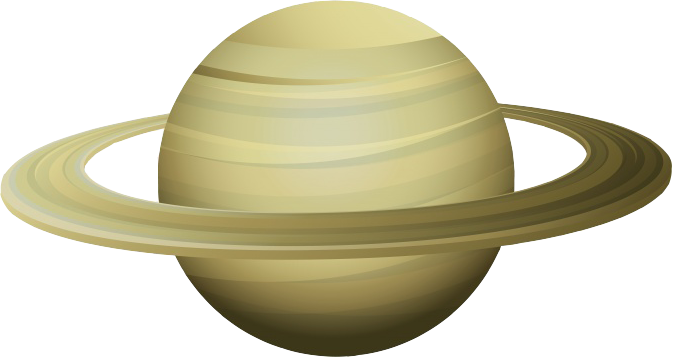
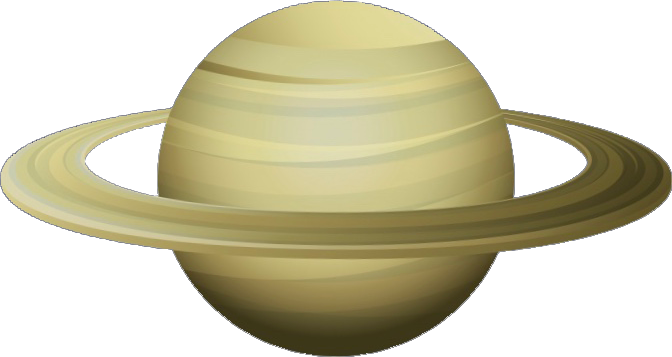
动画样式改造

diff --git a/src/modules/animateList/index.scss b/src/modules/animateList/index.scss
@@ -5,67 +5,6 @@
     width: 100%;
     min-height: 100%;
     background: #f5f5f9;
-
-    .star-animate1 {
-        width: 100%;
-        height: 100%;
-        background: url("~Images/animateList/1/bg.jpeg");
-        background-size: cover;
-
-        .out_circle{
-            width: 400px;
-            height: 400px;
-            margin: auto;
-            border-radius:50%;
-            position: relative;
-        }
-        .center-img1 {
-            position: absolute;
-            left: 6%;
-            top: 25.5%;
-            width: 88%;
-            height: 49%;
-        }
-        .test-div {
-            position: absolute;
-            width: 200px;
-            height: 625px;
-            background: red;
-            left: 128px;
-            top: -71px;
-        }
-        .nav_circle{
-            width:100%;
-            height:100%;
-            float:left;
-            position:absolute;
-            top:0;
-            text-align:center;
-            border: 1px solid red;
-            border-radius: 50%;
-        }
-
-        .img_top img, .img_bottom img, .img_bottom2 img {
-            width: 100px;
-            height: 100px;
-        }
-        .img_top,.img_bottom,.img_bottom2{
-            position: absolute;
-            z-index:1;
-        }
-        .nav_circle .img a{
-            position: absolute;
-            top:10px;
-            left:94px;
-            width: 52px;
-        }
-        .r1{
-            animation: rotate 13s linear infinite;
-            -webkit-animation:rotate 13s linear infinite;
-            -moz-animation:rotate 13s linear infinite;
-            -o-animation:rotate 13s linear infinite;
-        }
-    }
     .star-animate {
         width: 100%;
         height: 100%;
@@ -97,7 +36,7 @@
             top: 25.5%;
             width: 88%;
             height: 49%;
-            transform: rotateX(0deg);
+            transform: rotateX(70deg);
             -webkit-transform: rotateX(70deg); /* Safari and Chrome */
         }
         .test-div {

diff --git a/src/modules/animateList/index.js b/src/modules/animateList/index.js
@@ -43,8 +43,7 @@ class AnimateList extends Component {
   render() {
     return <div className="animateList-container">
       <Header parentProps={this.props}/>
-      <a id="a1" href="#a1"/>
-      <Card title="3D旋转动画效果或者卫星围绕旋转效果（终）" bordered={false} style={{ width: "80%", marginTop: 90, marginLeft: "10%", height: 500 }}>
+      <Card title="3D旋转动画效果或者卫星围绕旋转效果" bordered={false} style={{ width: "80%", marginTop: 90, marginLeft: "10%", height: 500 }}>
         <div className="star-animate">
           <div className="out_circle">
             <div className="nav_circle r1">
@@ -62,25 +61,6 @@ class AnimateList extends Component {
           </div>
         </div>
       </Card>
-      <a id="a2" href="#a2"/>
-      <Card title="3D旋转动画效果或者卫星围绕旋转效果（一）" bordered={false} style={{ width: "80%", marginTop: 90, marginLeft: "10%", height: 600 }}>
-        <div className="star-animate1">
-          <div className="out_circle">
-            <div className="nav_circle r1">
-              <div className="img_top img">
-                <img src={require("Images/animateList/1/star1.png")}/>
-              </div>
-              <div className="img_bottom img">
-                <img src={require("Images/animateList/1/star2.png")}/>
-              </div>
-              <div className="img_bottom2 img">
-                <img src={require("Images/animateList/1/star3.png")}/>
-              </div>
-            </div>
-          </div>
-        </div>
-      </Card>
-
     </div>
   }
 }

diff --git a/src/modules/behaviors/index.js b/src/modules/behaviors/index.js
@@ -212,7 +212,7 @@ class Behaviors extends Component {
     const { exampleSearchValue } = this.props
     this.setState({loading: true, searchExampleAble: true})
     const searchValue = Utils.b64EncodeUnicode(exampleSearchValue)
-    this.props.searchUserBehaviorsAction({searchValue, webMonitorId: "LTV_webmonitor", timeScope: 3 }, (result) => {
+    this.props.searchUserBehaviorsAction({searchValue, webMonitorId: "LTV_webmonitor", timeScope: 1 }, (result) => {
       const res = result.behaviorList
       const len = res.length
       for (let i = 0; i < res.length - 1; i++) {
